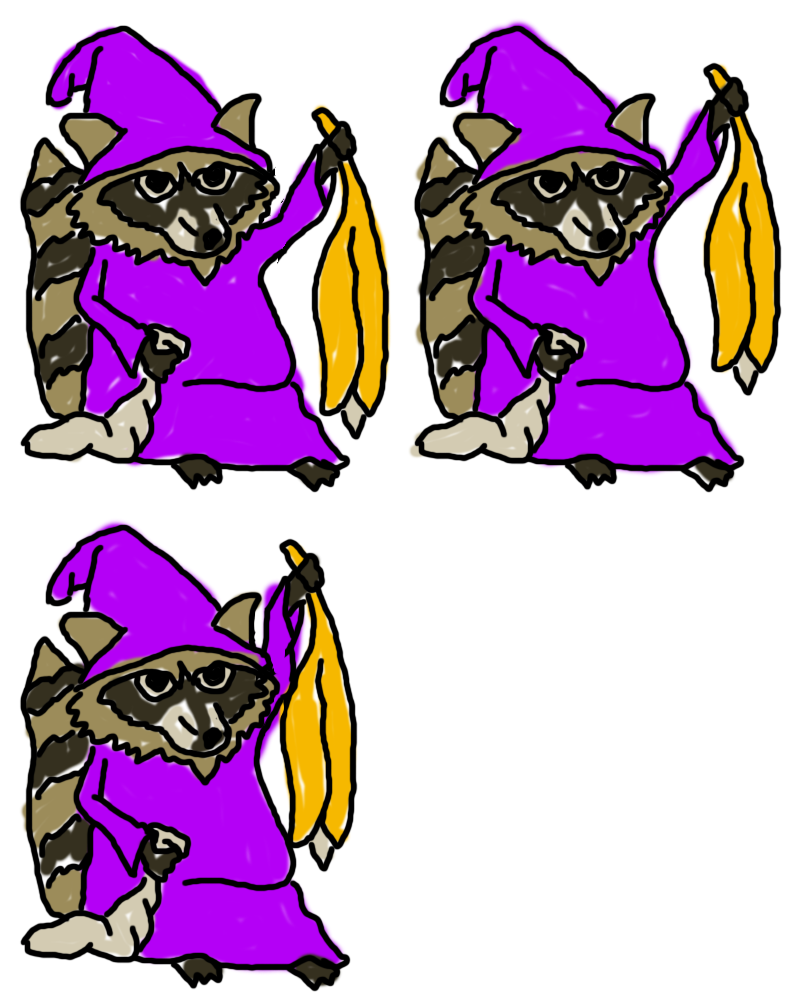
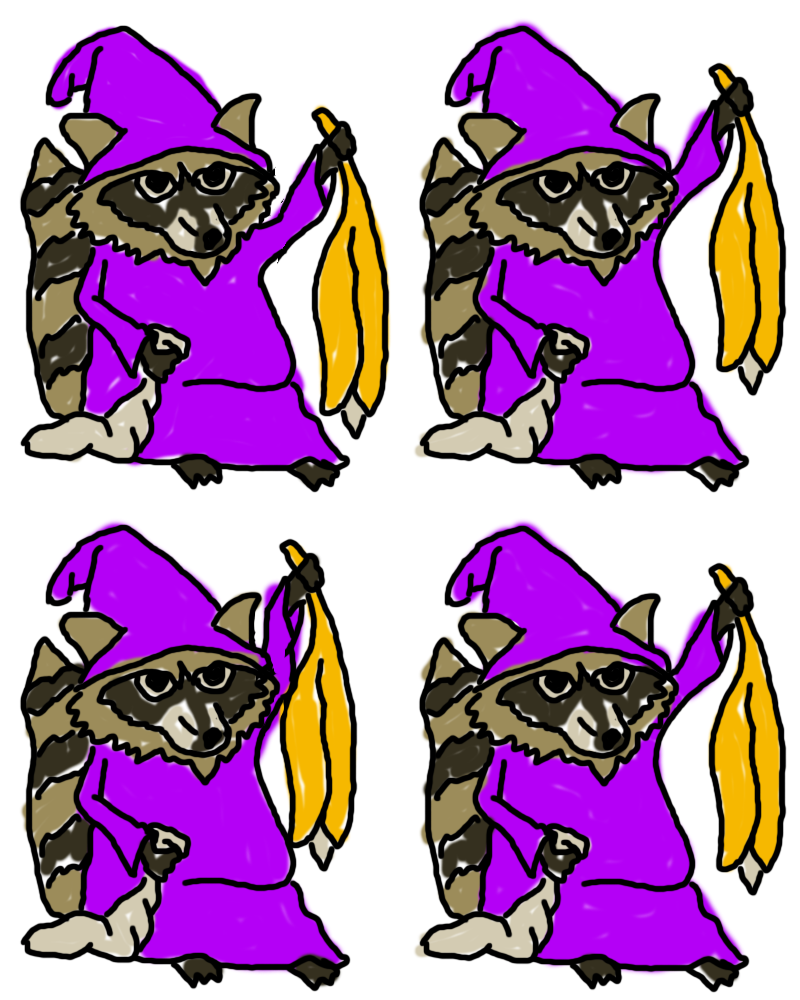
more spritesheet refinements

Changed region(s): [[0.5, 0.496, 1.0, 0.992], [0.5, 0.0, 1.0, 0.496], [0.7188, 0.434, 0.7812, 0.496]]

diff --git a/src/components/animation-canvas/_animations.js b/src/components/animation-canvas/_animations.js
@@ -33,7 +33,32 @@ const A = {
     );
     ctx.restore();
   },
-  SpriteTest: (ctx, width, height, props) => {
+  Sprite_Still: (ctx, width, height, props) => {
+    if(!props.sprite) return;
+
+    const cCoords = getStillCellCoords(props.spriteInfo, props.spriteInfo.frame);
+
+    const s = props.spriteInfo.scale || 1;
+    const x = 0;
+    const y = 0;
+    const sW = cCoords.w * s;
+    const sH = cCoords.h * s;
+
+    ctx.save();
+    ctx.clearRect(0, 0, width, height);
+    ctx.drawImage(
+      props.sprite, 
+      cCoords.x, 
+      cCoords.y, 
+      cCoords.w, 
+      cCoords.h, 
+      x, 
+      y, 
+      sW, 
+      sH);
+    ctx.restore();
+  },
+  Sprite_Animated: (ctx, width, height, props) => {
     if(!props.sprite) return;
 
     const frames = props.spriteInfo.frames;
@@ -44,7 +69,7 @@ const A = {
 
     const cCoords = getCellCoords(props.spriteInfo, idx);
 
-    const s = 1;
+    const s = props.spriteInfo.scale || 1;
     const x = 0;
     const y = 0;
     const sW = cCoords.w * s;
@@ -66,6 +91,16 @@ const A = {
   }
 }
 
+const getStillCellCoords = (sheetData, i) => {
+  const c = sheetData.grid[0];
+  const r = sheetData.grid[1];
+  return {
+    x: (i % c) * sheetData.cells[0],
+    y: (Math.floor(i / r) % r) * sheetData.cells[1],
+    w: sheetData.cells[0],
+    h: sheetData.cells[1]
+  }
+}
 
 const getCellCoords = (sheetData, i) => {
   const frames = sheetData.frames;

diff --git a/src/store/selectors/index.js b/src/store/selectors/index.js
@@ -5,6 +5,7 @@ export const getCustomData = state => state.data.customData || {};
 export const getActivePetType = state => state.data.activePetType || null;
 export const getActivePetId = state => state.data.activePetId || null;
 export const getCounter = state => state.data.counter;
+export const getSprites = state => state.data.customData && state.data.customData.sprites || {};
 
 
 export const selectCustomLabels = createSelector(
@@ -47,14 +48,21 @@ export const selectActivePets = createSelector(
   }
 );
 
+
 export const selectActivePet = createSelector(
-  [getActivePetId, selectPets],
-  (activePetId, allPets) => {
-    if(!activePetId || !allPets) return null;
+  [getActivePetId, selectPets, getSprites],
+  (activePetId, allPets, sprites) => {
+    if(!activePetId || !allPets || !sprites) return null;
 
     const found = allPets.find(p => p.id === activePetId);
     if(found){
-      return { ...found, animation: found.animations.idle[0] }
+      let animationLabel = found.animations.idle[0];
+      if(animationLabel && sprites[animationLabel]){
+        return { ...found, animation: { ...sprites[animationLabel], label: animationLabel } }
+      }else{
+        console.error('Error getting animation');
+        return null;
+      }
     }else{
       return null;
     }

diff --git a/src/components/animation-canvas/index.js b/src/components/animation-canvas/index.js
@@ -57,7 +57,7 @@ export default class AnimationCanvas extends Component {
   }
 
   componentDidUpdate(prevProps){
-    if(this.props.animation.label && prevProps.animation.label !== this.props.animation.label){
+    if(this.props.animation.label && (prevProps.animation.label !== this.props.animation.label || !this.state.img)){
       this.updateImage(this.props.animation);
     }
   }
